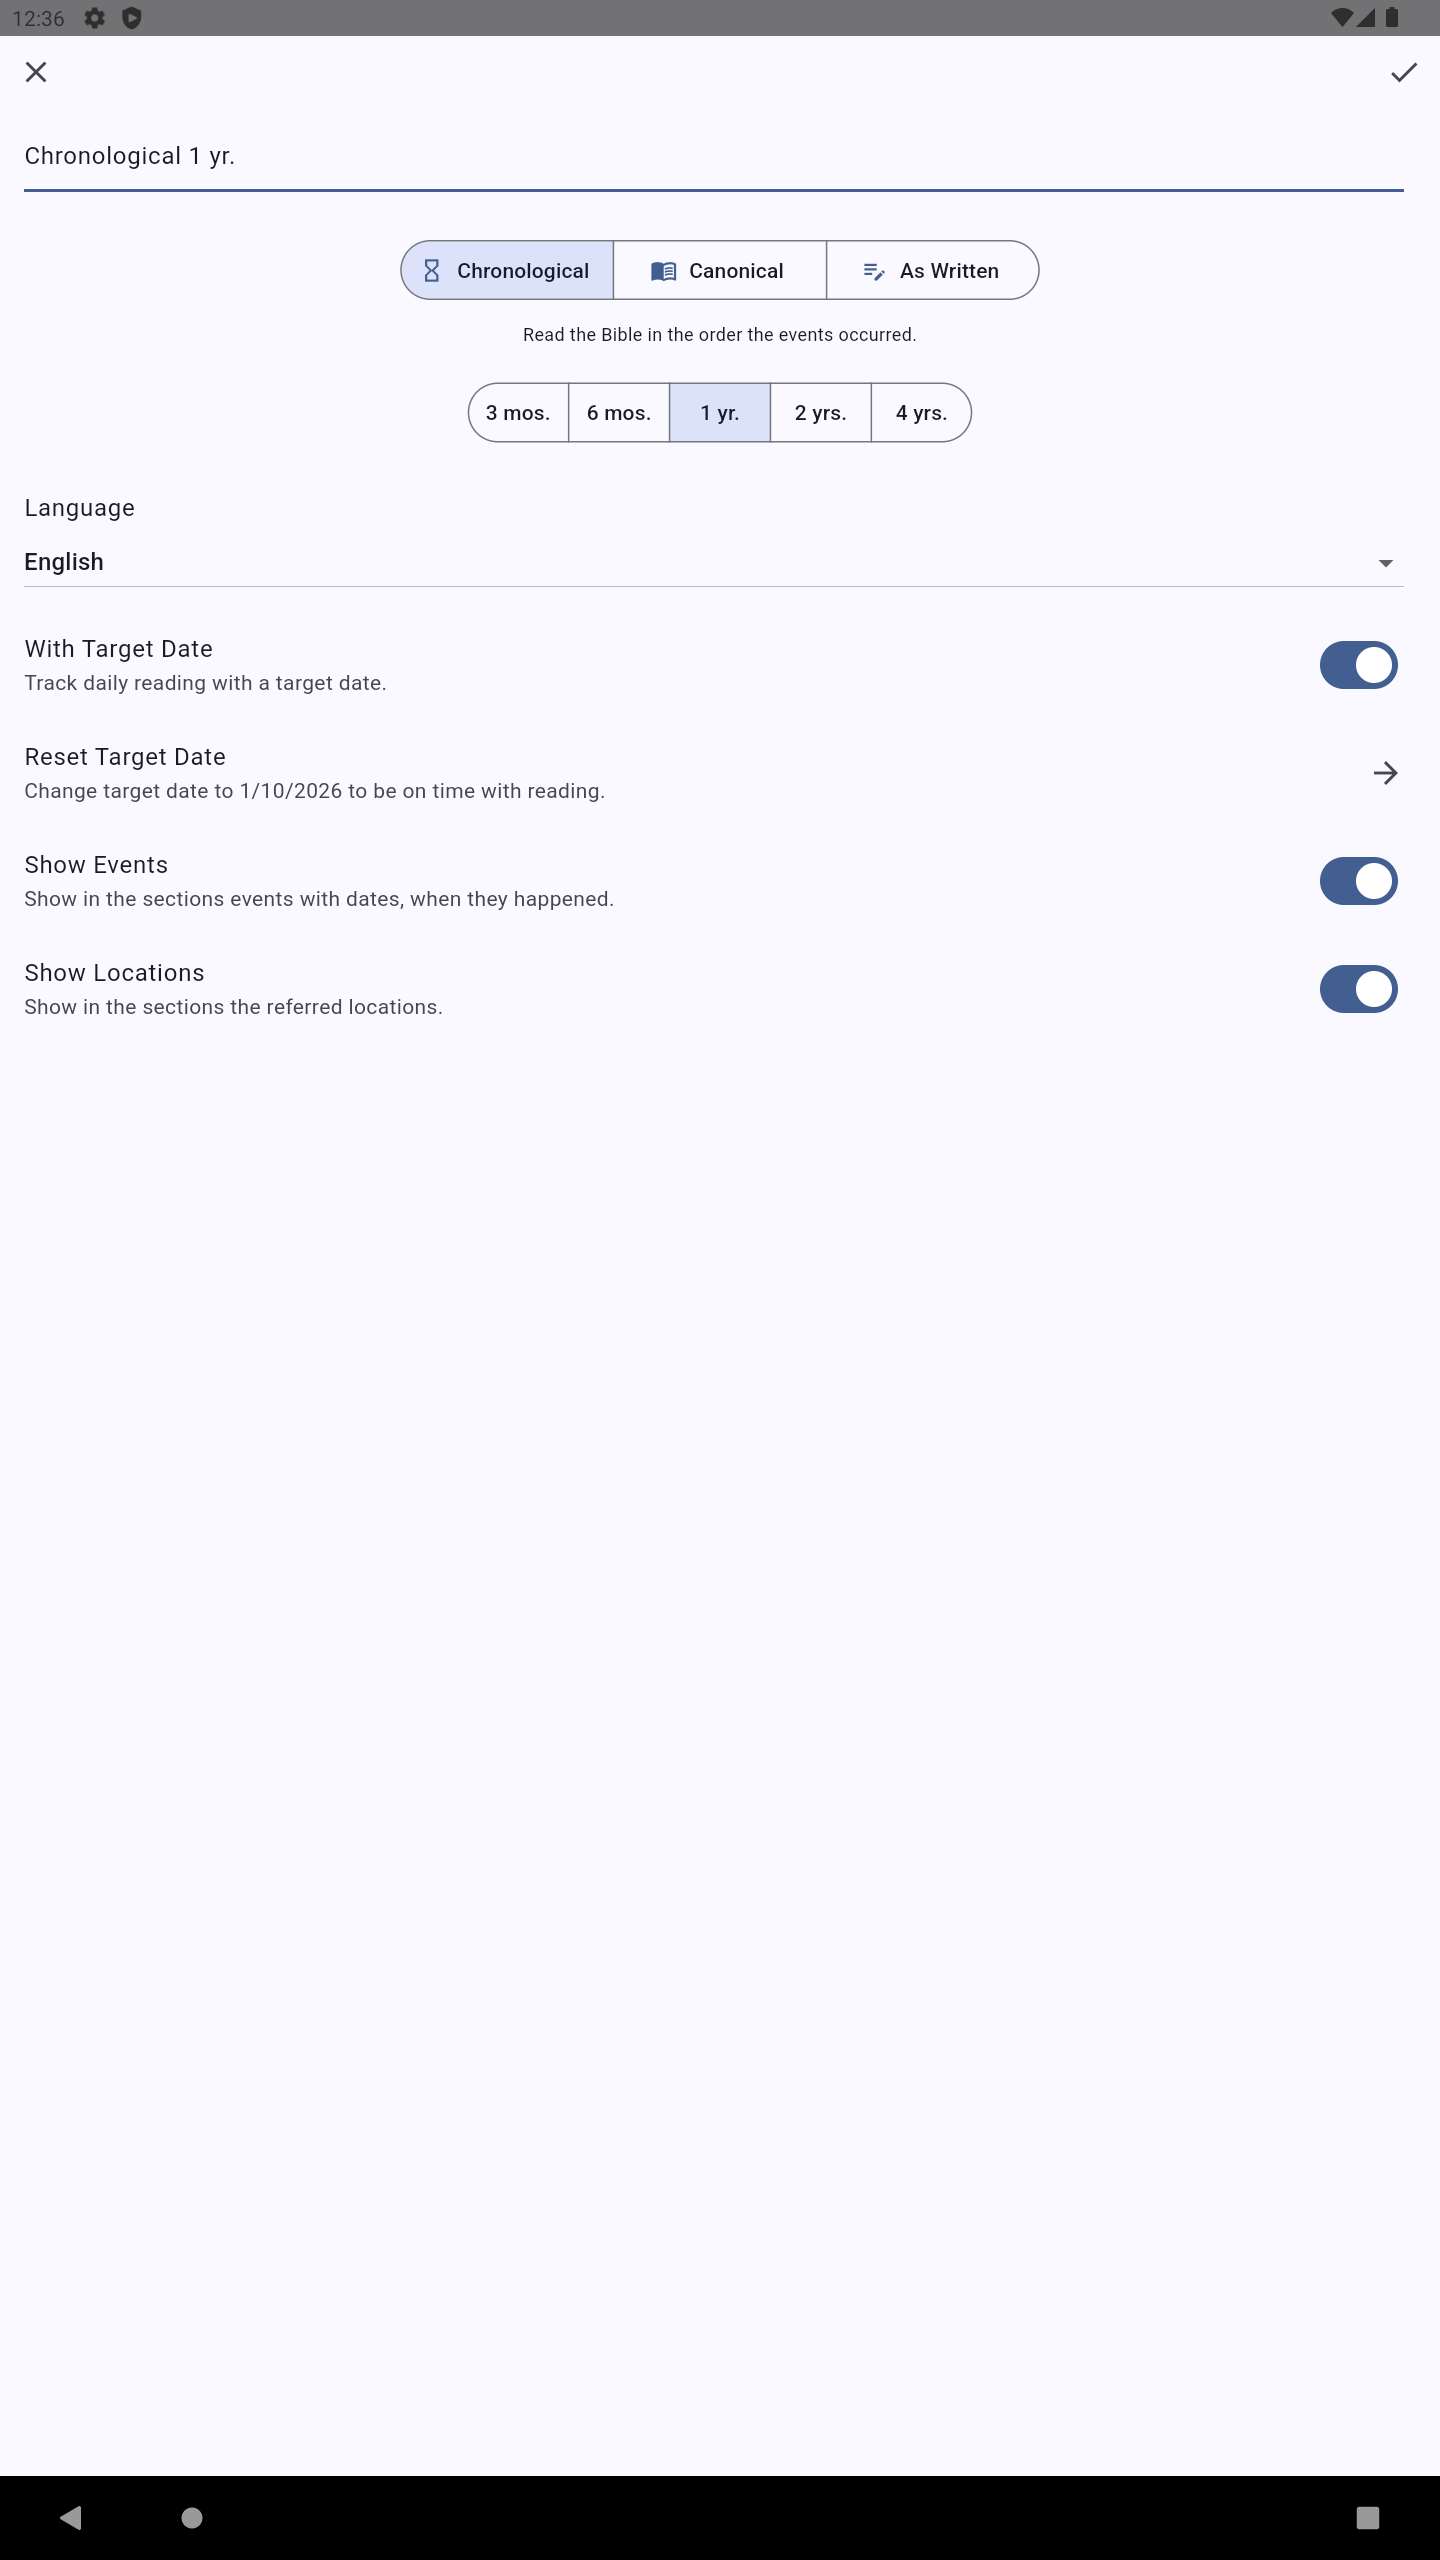
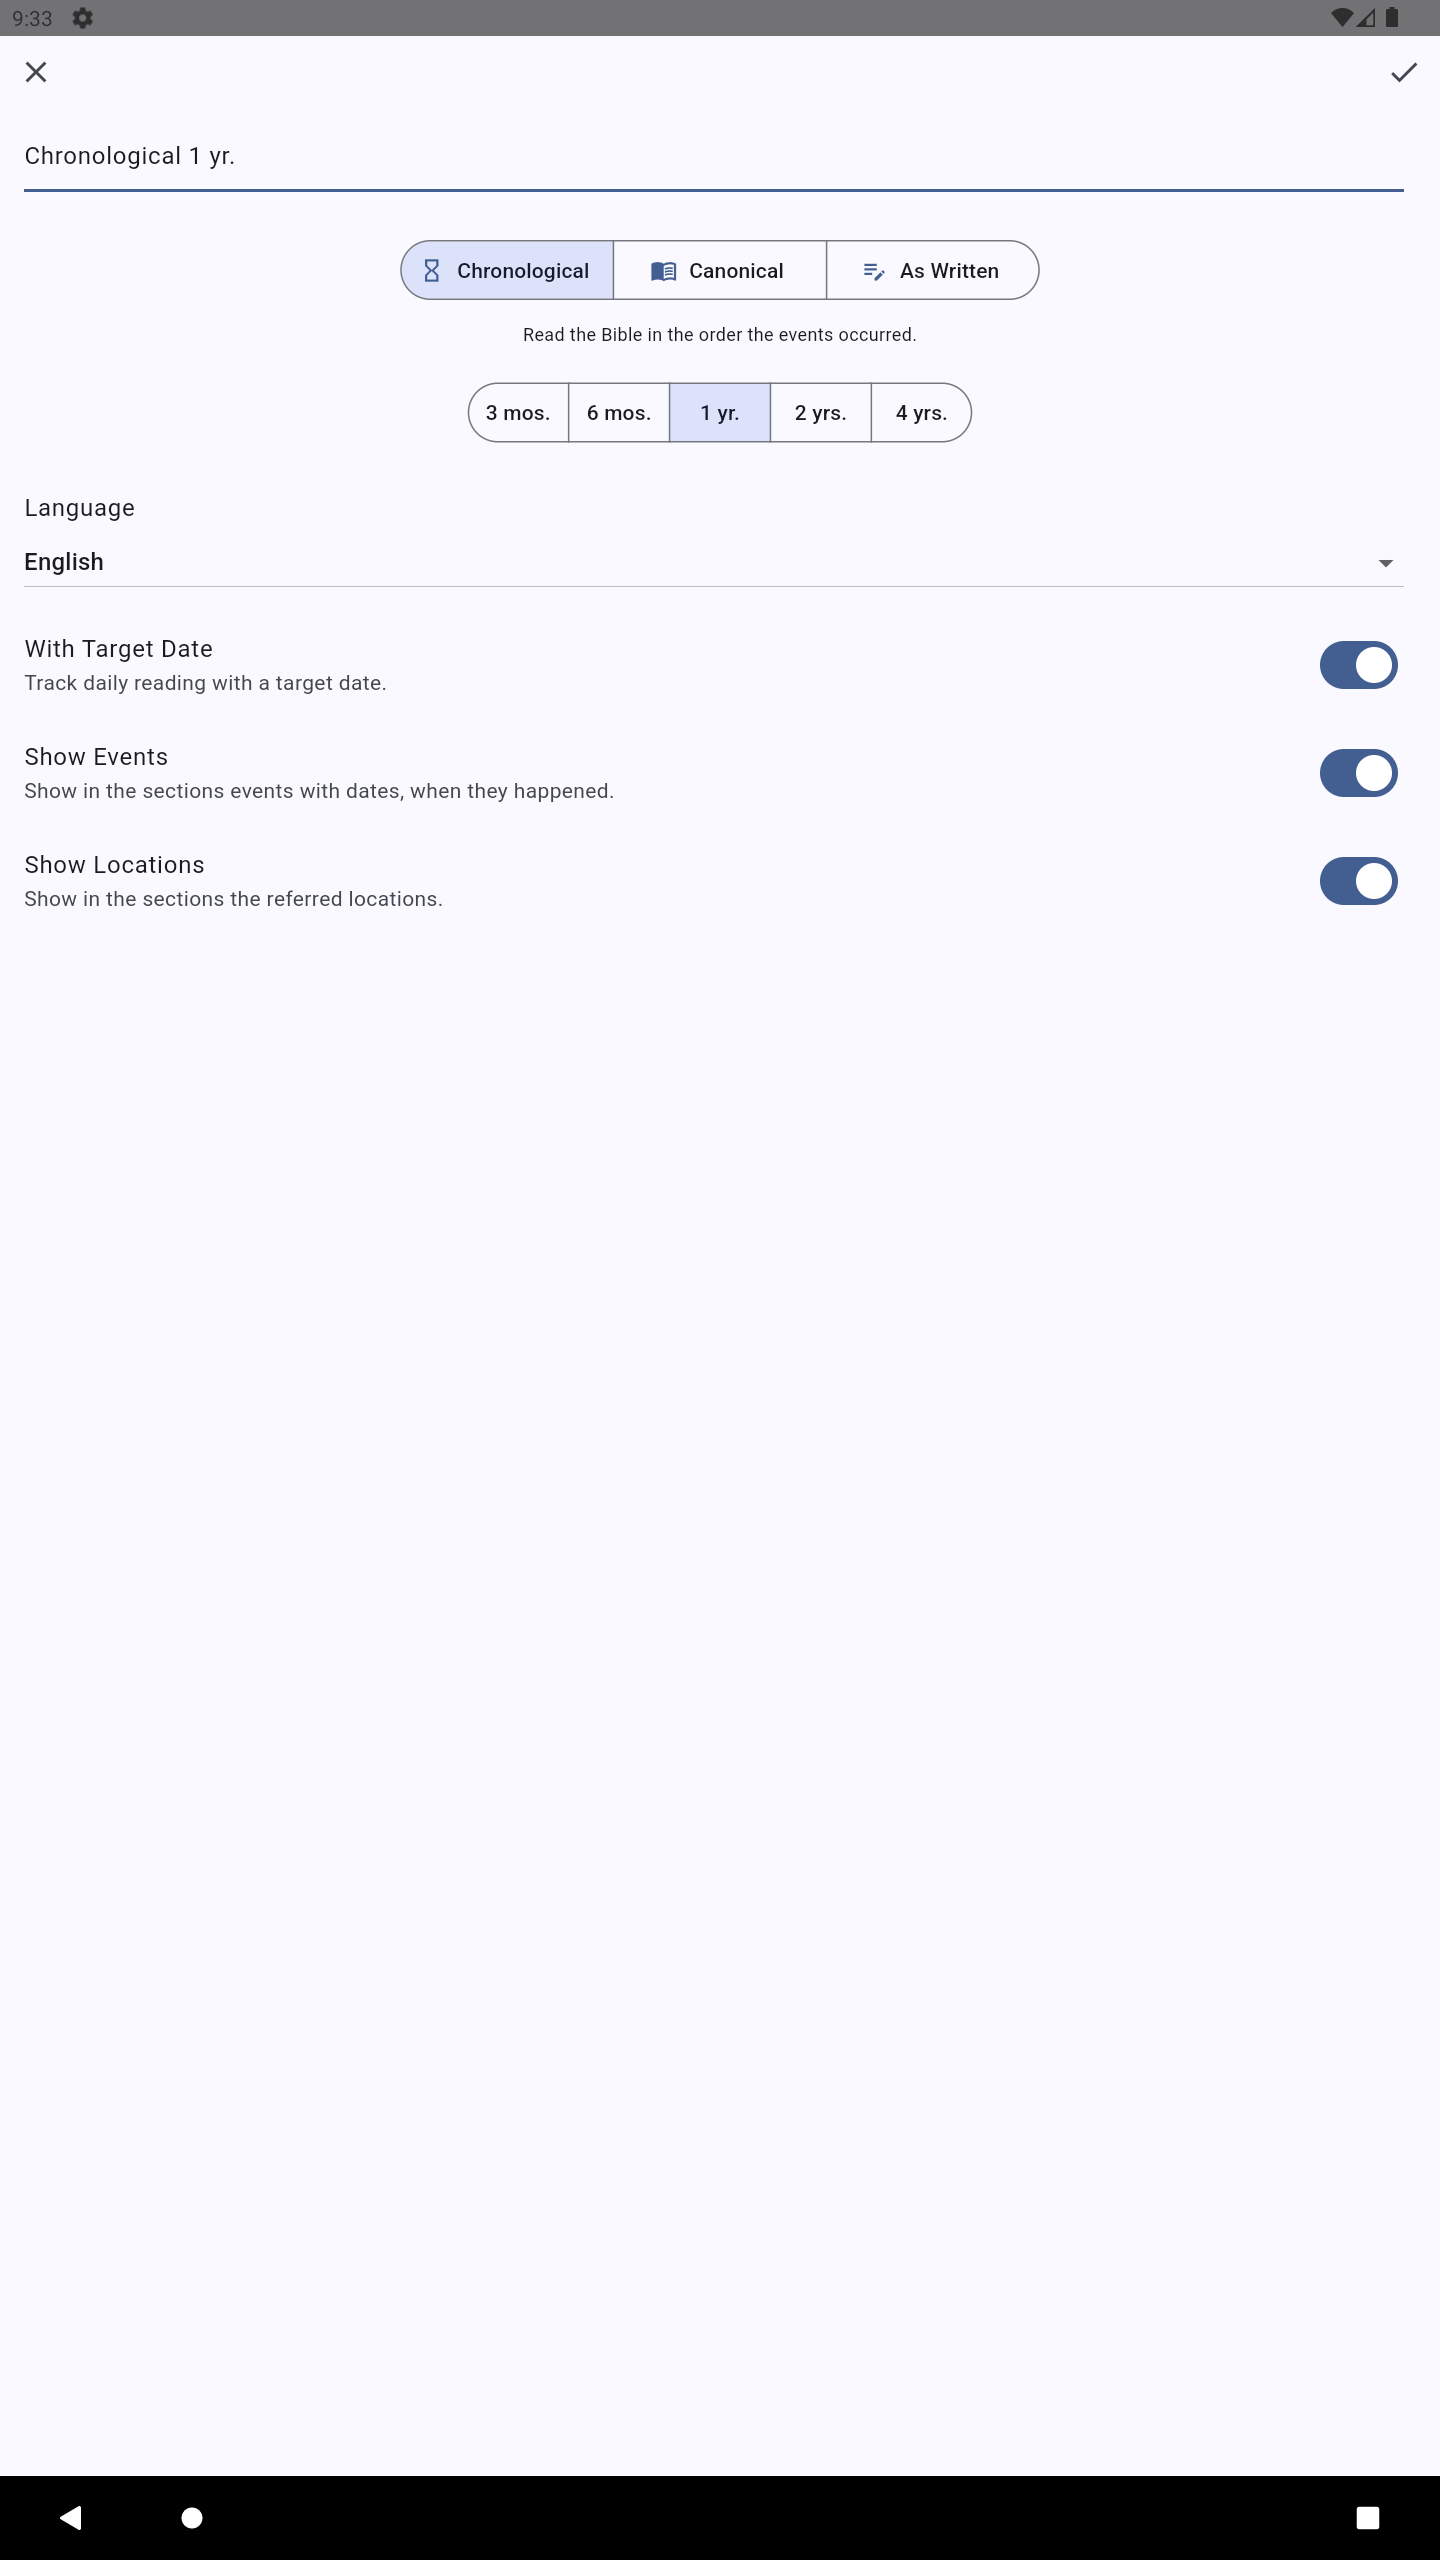
plans: hide reset target date on the new plan dialog

diff --git a/integration_test/take_screenshots.dart b/integration_test/take_screenshots.dart
@@ -23,11 +23,12 @@ Future<ProviderContainer> getDefaultProviderContainer(
 
 final os = Platform.operatingSystem;
 
-void takeScreenshot(
+Future<void> takeScreenshot(
     {required IntegrationTestWidgetsFlutterBinding binding,
     required String filename}) async {
-  await binding.takeScreenshot('assets/store_presence/screenshots/$os-$filename.png');
-  await Future<void>.delayed(const Duration(seconds: 5));
+  await binding
+      .takeScreenshot('assets/store_presence/screenshots/$os-$filename.png');
+  await Future<void>.delayed(const Duration(seconds: 3));
 }
 
 void main() async {
@@ -38,7 +39,7 @@ void main() async {
     await getDefaultProviderContainer(tester);
     await binding.convertFlutterSurfaceToImage();
     await tester.pumpAndSettle();
-    takeScreenshot(binding: binding, filename: '1-plans');
+    await takeScreenshot(binding: binding, filename: '1-plans');
   });
 
   testWidgets('Take the schedule screenshot', (tester) async {
@@ -67,7 +68,7 @@ void main() async {
     await tester.pumpAndSettle();
     await binding.convertFlutterSurfaceToImage();
     await tester.pumpAndSettle();
-    takeScreenshot(binding: binding, filename: '2-schedule');
+    await takeScreenshot(binding: binding, filename: '2-schedule');
     await tester.tap(find.byType(BackButton));
     await tester.pumpAndSettle();
     await tester.tap(find.byIcon(Icons.settings));
@@ -78,7 +79,7 @@ void main() async {
     await tester.pumpAndSettle();
     await tester.tap(find.byType(PlanCard).first);
     await tester.pumpAndSettle();
-    takeScreenshot(binding: binding, filename: '3-schedule-dark');
+    await takeScreenshot(binding: binding, filename: '3-schedule-dark');
   });
 
   testWidgets('Take the new plan screenshot', (tester) async {
@@ -92,7 +93,7 @@ void main() async {
     SystemChannels.textInput.invokeMethod('TextInput.hide');
     await binding.convertFlutterSurfaceToImage();
     await tester.pumpAndSettle();
-    takeScreenshot(binding: binding, filename: '4-new');
+    await takeScreenshot(binding: binding, filename: '4-new');
   });
 
   testWidgets('Take the plan edit screenshot', (tester) async {
@@ -106,7 +107,7 @@ void main() async {
     SystemChannels.textInput.invokeMethod('TextInput.hide');
     await binding.convertFlutterSurfaceToImage();
     await tester.pumpAndSettle();
-    takeScreenshot(binding: binding, filename: '5-edit');
+    await takeScreenshot(binding: binding, filename: '5-edit');
   });
 
   testWidgets('Take the settings screenshot', (tester) async {
@@ -117,6 +118,6 @@ void main() async {
     await tester.pumpAndSettle();
     await binding.convertFlutterSurfaceToImage();
     await tester.pumpAndSettle();
-    takeScreenshot(binding: binding, filename: '6-settings');
+    await takeScreenshot(binding: binding, filename: '6-settings');
   });
 }

diff --git a/lib/src/plans/presentations/plan_edit_dialog.dart b/lib/src/plans/presentations/plan_edit_dialog.dart
@@ -53,13 +53,16 @@ class PlanEditDialog extends ConsumerWidget {
             ]),
             PlanNameTile(planId, key: const Key('plan-name-tile')),
             const SizedBox(height: 20),
-            if (isNewPlan) PlanTypeSegmentedButton(planId),
-            if (isNewPlan) const SizedBox(height: 20),
+            if (isNewPlan) ...[
+              PlanTypeSegmentedButton(planId),
+              const SizedBox(height: 20),
+            ],
             PlanDurationSegmentedButton(planId),
             const SizedBox(height: 20),
             PlanLanguageTile(planId),
             PlanWithTargetDateTile(planId),
-            if (plan.withTargetDate &&
+            if (!isNewPlan &&
+                plan.withTargetDate &&
                 adjustedTargetDate != null &&
                 plan.targetDate != adjustedTargetDate)
               PlanResetTargetDateTile(planId, adjustedTargetDate),

diff --git a/integration_test/app_test.dart b/integration_test/app_test.dart
@@ -3,7 +3,6 @@ import 'package:flutter/material.dart';
 import 'package:flutter/scheduler.dart';
 import 'package:flutter_riverpod/flutter_riverpod.dart';
 import 'package:flutter_test/flutter_test.dart';
-import 'package:integration_test/integration_test.dart';
 import 'package:nwt_reading/src/base/presentation/plan.dart';
 import 'package:nwt_reading/src/base/repositories/shared_preferences_repository.dart';
 import 'package:nwt_reading/src/bible_languages/entities/bible_languages.dart';
@@ -42,7 +41,6 @@ Future<ProviderContainer> getDefaultProviderContainer(
 
 void main() async {
   final deepCollectionEquals = const DeepCollectionEquality().equals;
-  final binding = IntegrationTestWidgetsFlutterBinding.ensureInitialized();
   WidgetController.hitTestWarningShouldBeFatal = true;
 
   testWidgets('Entities are initialized', (tester) async {
